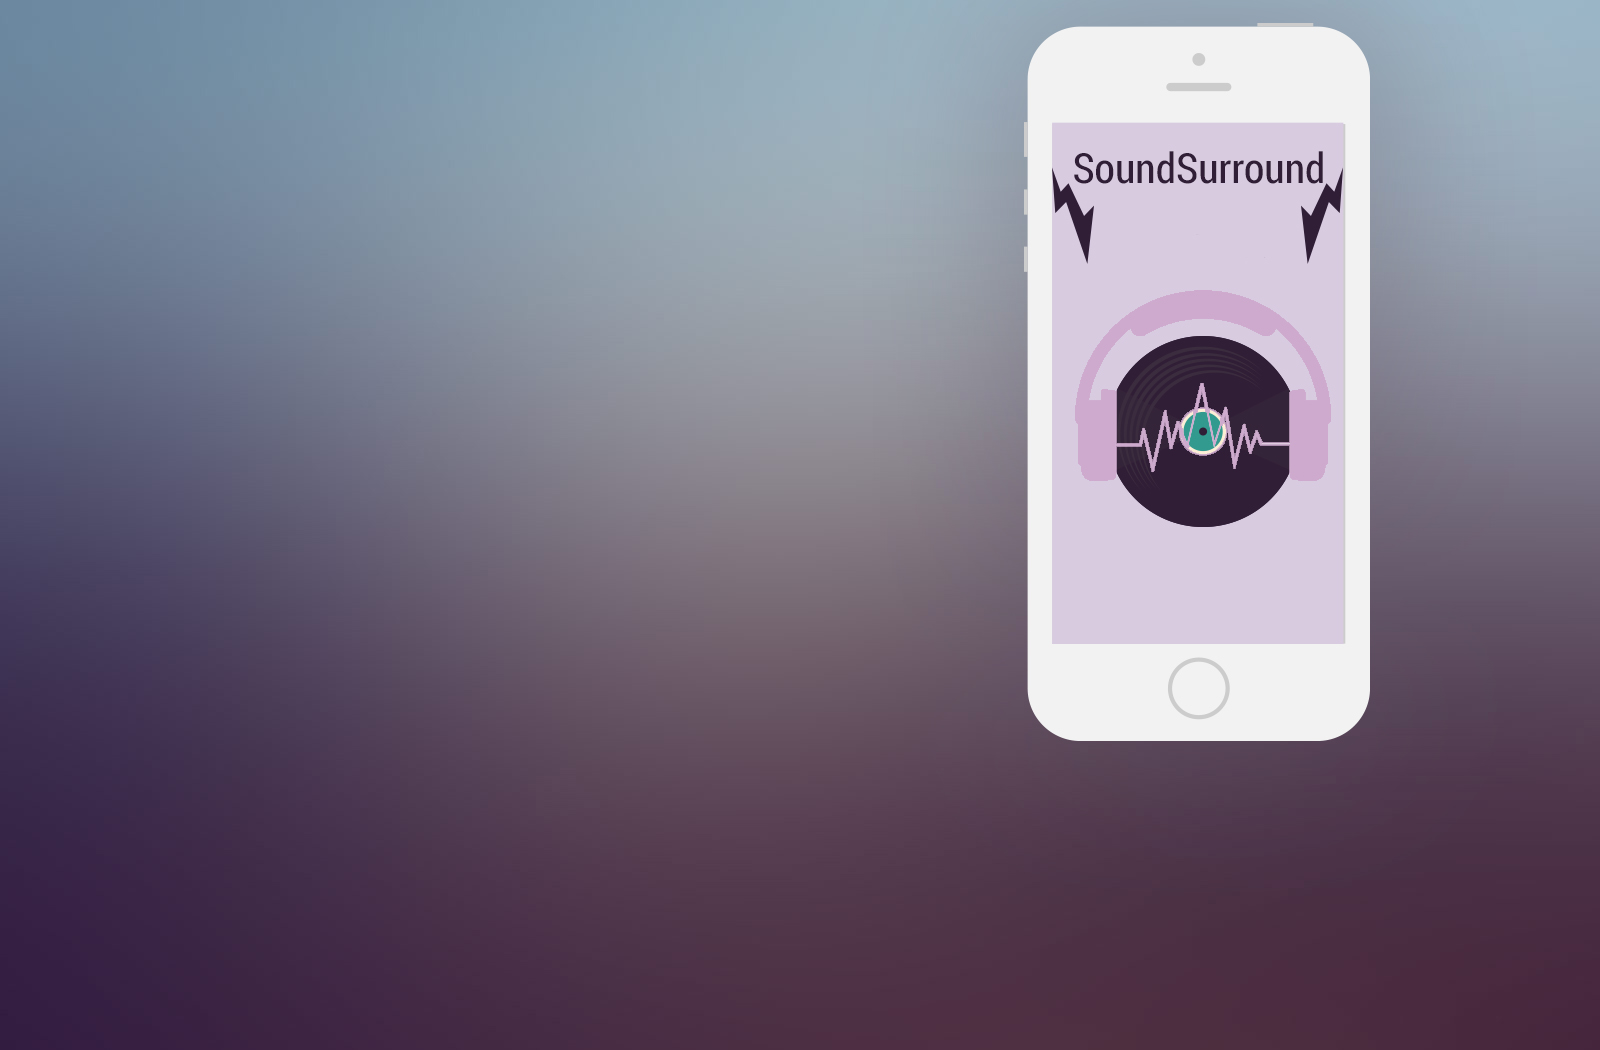
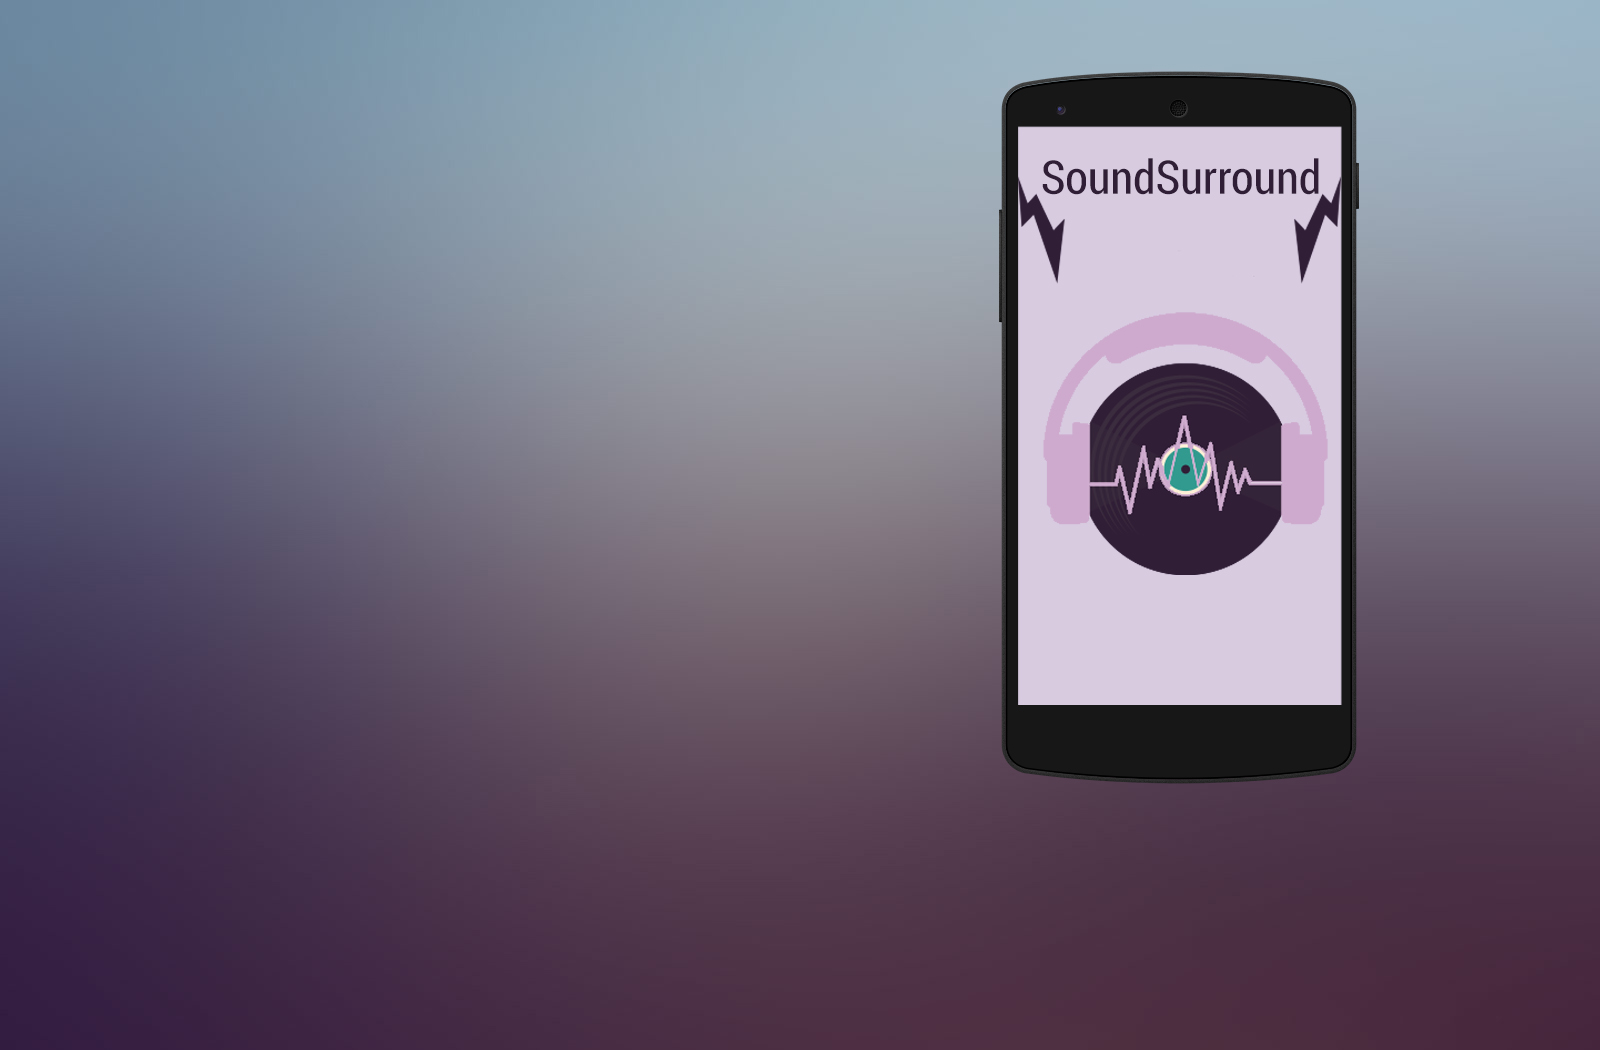
Add Color String branding, fix date and images

Changed region(s): [[0.625, 0.0, 0.875, 0.7619]]

diff --git a/index.html b/index.html
@@ -6,7 +6,7 @@
 -->
 <html>
 	<head>
-		<title>SuroundSound</title>
+		<title>Color String</title>
 		<meta charset="utf-8" />
 		<meta name="viewport" content="width=device-width, initial-scale=1" />
 		<!--[if lte IE 8]><script src="assets/js/ie/html5shiv.js"></script><![endif]-->
@@ -19,7 +19,7 @@
 
 			<!-- Header -->
 				<header id="header">
-					<h1 id="logo"><a href="index.html">SoundSurround</a></h1>
+					<h1 id="logo"><a href="index.html">Color String</a></h1>
 					<nav id="nav"> </nav>
 				</header>
 
@@ -27,7 +27,8 @@
 				<section id="banner">
 					<div class="content align-center">
 						<header>
-						  <h2 class="align-center">Sound Surround</h2>
+						 <p class="align-center">Color String presents </p>
+						  <h2 class="align-center">SoundSurround</h2>
 						  <p class="align-center">A revolutionary sound experience </p>
 						</header>
 </div>
@@ -84,12 +85,14 @@
 						  <h2 class="align-center">How to get started?</h2>
 						  <p class="align-center">Are you as excited to get this started as we are? All you need to do is download our app and follow the instructions!</p>
 						</header>
-<p class="align-center">We have a live showcase of our project on <strong>13th of October</strong> in <br>
-					  <strong>IIT Bombay.</strong></p>
+<p class="align-center">We have a live showcase of our project on <strong>12th of October</strong> in <br>
+					  <strong>IIT Bombay</strong></p>
 					  <p class="align-center">Do join us ! </p>
 						<ul class="actions">
-						  <li><a class="button align-center"><strong>App Coming Soon</strong></a></li>
-					  </ul>
+						  <li><a class="button align-center" href="http://colorstring.com/app"><strong>Get App Now</strong></a></li>
+						<img src="images/play_store.jpg" height="50%" width="50%">	
+					  
+				</ul>
 					</div>
 					<a href="#four" class="goto-next scrolly">Next</a>
 				</section>
@@ -134,7 +137,7 @@
 			<!-- Footer -->
 				<footer id="footer">
 <ul class="copyright">
-	  <li>&copy; Untitled. All rights reserved.</li><li>Design: <a href="http://html5up.net">HTML5 UP</a></li>
+	  <li>&copy; Color String. All rights reserved.</li><li>Design: <a href="http://html5up.net">HTML5 UP</a></li>
 				  </ul>
 		  </footer>
 

diff --git a/assets/css/main.css b/assets/css/main.css
@@ -2857,7 +2857,7 @@
 		background-position: center center;
 		background-size: cover;
 		box-shadow: 0 0.25em 0.5em 0 rgba(0, 0, 0, 0.25);
-		height: 100vh;
+		height: 120vh;
 		overflow: hidden;
 		position: relative;
 	}
@@ -2872,7 +2872,7 @@
 
 		.spotlight:nth-last-of-type(3) {
 			z-index: 3;
-		}
+		}	
 
 		.spotlight:nth-last-of-type(4) {
 			z-index: 4;
